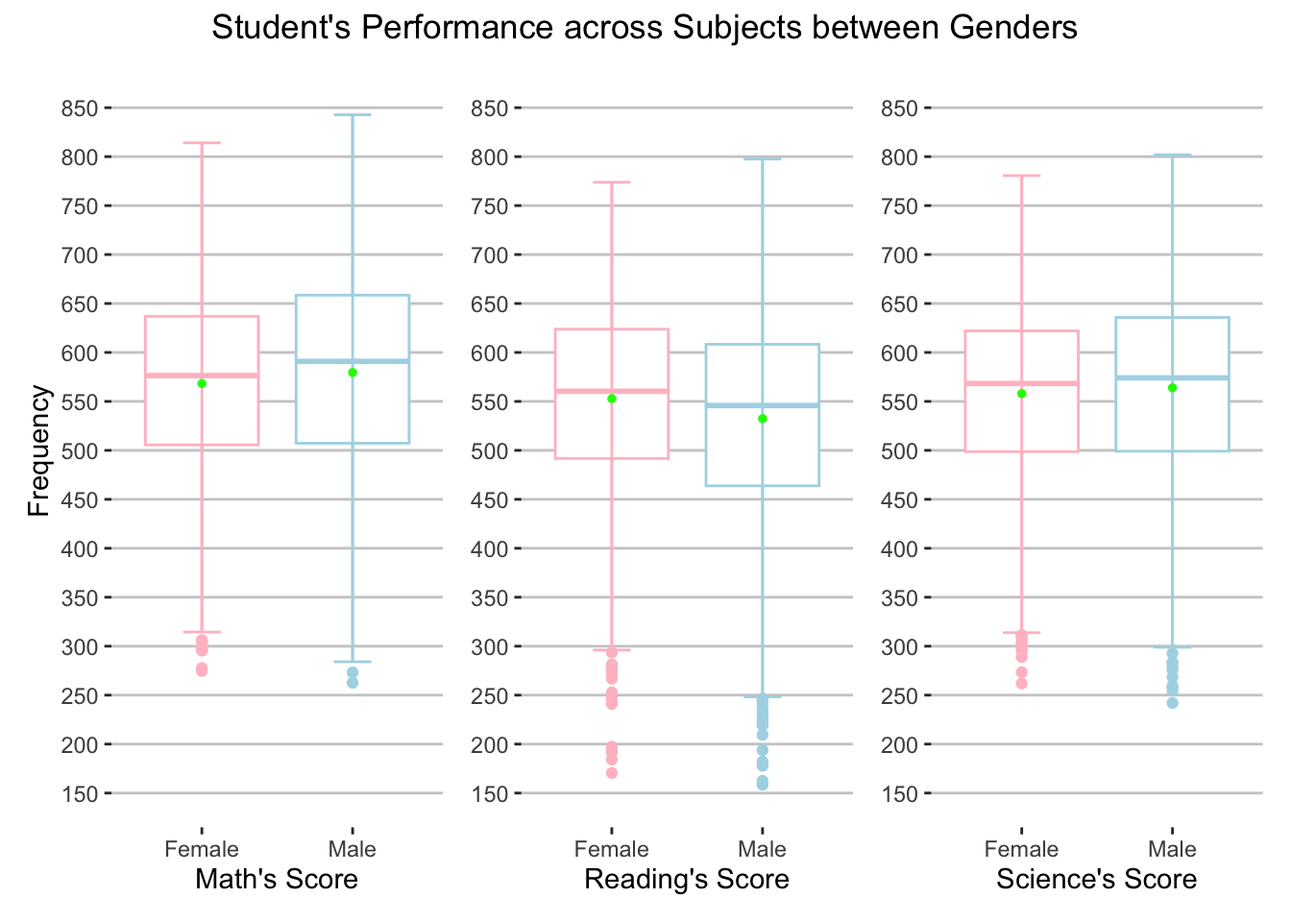
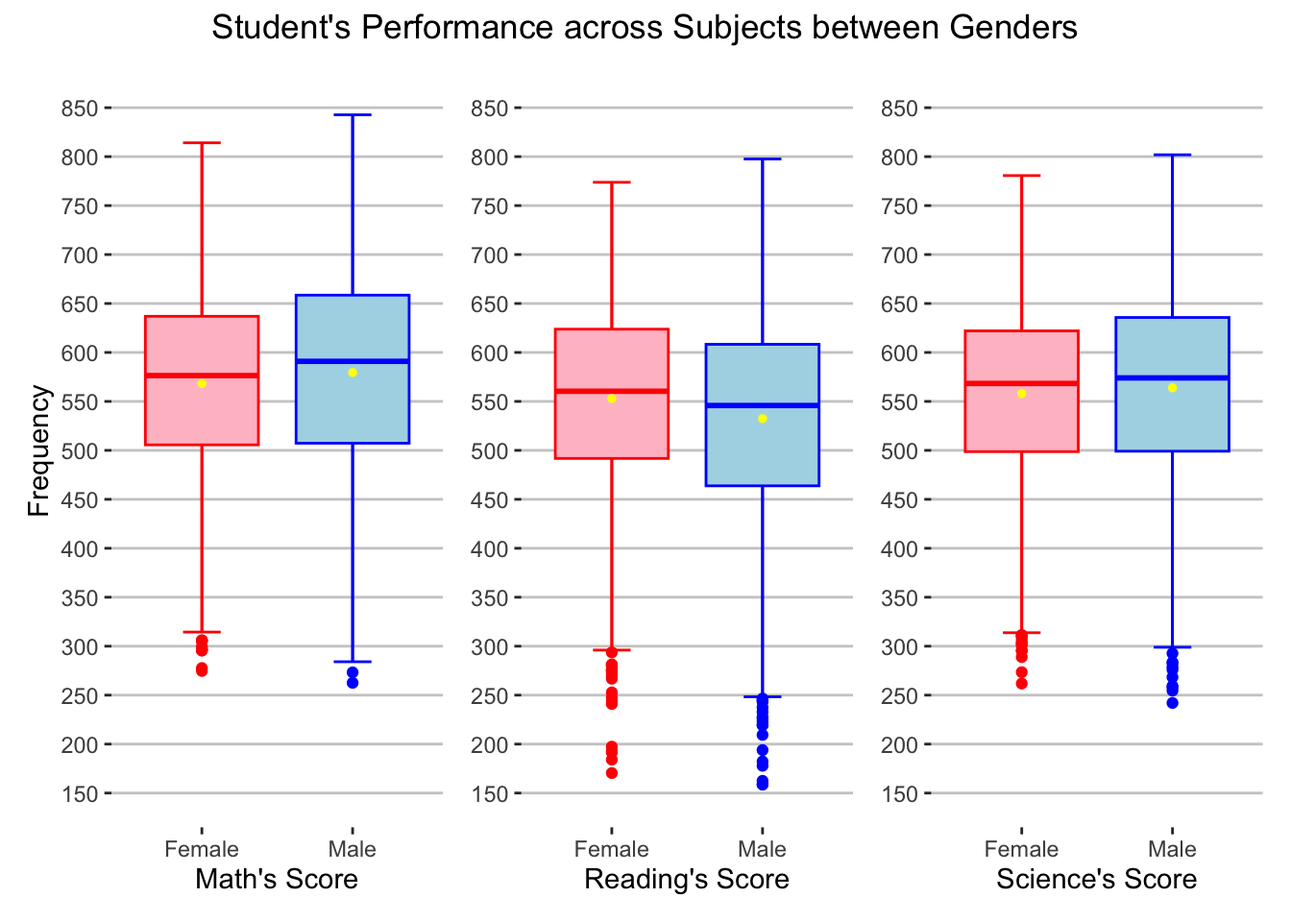
Take-home Exercise 2 Commit 3

diff --git a/_site/Take-home_Ex/Take-home_Ex2/Take-home_Ex2.html b/_site/Take-home_Ex/Take-home_Ex2/Take-home_Ex2.html
@@ -206,7 +206,6 @@ pre > code.sourceCode > span > a:first-child::before { text-decoration: underlin
   <li><a href="#distribution-of-students-performance-in-each-subject" id="toc-distribution-of-students-performance-in-each-subject" class="nav-link" data-scroll-target="#distribution-of-students-performance-in-each-subject">1. Distribution of student’s performance in each subject</a></li>
   <li><a href="#students-academic-performances-in-relation-to-gender" id="toc-students-academic-performances-in-relation-to-gender" class="nav-link" data-scroll-target="#students-academic-performances-in-relation-to-gender">2. Student’s academic performances in relation to gender</a></li>
   <li><a href="#the-comparison-of-students-performances-between-schools" id="toc-the-comparison-of-students-performances-between-schools" class="nav-link" data-scroll-target="#the-comparison-of-students-performances-between-schools">3. The comparison of student’s performances between schools</a></li>
-  <li><a href="#students-performance-in-regards-to-their-households-socioeconomic-status" id="toc-students-performance-in-regards-to-their-households-socioeconomic-status" class="nav-link" data-scroll-target="#students-performance-in-regards-to-their-households-socioeconomic-status">4. Student’s performance in regards to their household’s socioeconomic status</a></li>
   </ul></li>
   </ul>
 </nav>
@@ -234,7 +233,7 @@ pre > code.sourceCode > span > a:first-child::before { text-decoration: underlin
     <div>
     <div class="quarto-title-meta-heading">Modified</div>
     <div class="quarto-title-meta-contents">
-      <p class="date-modified">January 26, 2024</p>
+      <p class="date-modified">January 27, 2024</p>
     </div>
   </div>
     
@@ -320,8 +319,16 @@ pre > code.sourceCode > span > a:first-child::before { text-decoration: underlin
 <span id="cb6-14"><a href="#cb6-14" aria-hidden="true" tabindex="-1"></a>                         <span class="st">"1"</span> <span class="ot">=</span> <span class="st">"Female"</span>, </span>
 <span id="cb6-15"><a href="#cb6-15" aria-hidden="true" tabindex="-1"></a>                         <span class="st">"2"</span> <span class="ot">=</span> <span class="st">"Male"</span>))</span>
 <span id="cb6-16"><a href="#cb6-16" aria-hidden="true" tabindex="-1"></a></span>
-<span id="cb6-17"><a href="#cb6-17" aria-hidden="true" tabindex="-1"></a>stu_qqq<span class="sc">$</span>school_ID <span class="ot">&lt;-</span> <span class="fu">as.factor</span>(stu_qqq<span class="sc">$</span>school_ID)</span>
-<span id="cb6-18"><a href="#cb6-18" aria-hidden="true" tabindex="-1"></a>stu_qqq<span class="sc">$</span>gender <span class="ot">&lt;-</span> <span class="fu">as.factor</span>(stu_qqq<span class="sc">$</span>gender)</span></code><button title="Copy to Clipboard" class="code-copy-button"><i class="bi"></i></button></pre></div>
+<span id="cb6-17"><a href="#cb6-17" aria-hidden="true" tabindex="-1"></a>stu_qqq_sch <span class="ot">&lt;-</span> stu_qqq <span class="sc">%&gt;%</span></span>
+<span id="cb6-18"><a href="#cb6-18" aria-hidden="true" tabindex="-1"></a>  <span class="fu">group_by</span>(school_ID) <span class="sc">%&gt;%</span></span>
+<span id="cb6-19"><a href="#cb6-19" aria-hidden="true" tabindex="-1"></a>  <span class="fu">summarise</span>(</span>
+<span id="cb6-20"><a href="#cb6-20" aria-hidden="true" tabindex="-1"></a>    <span class="at">average_math =</span> <span class="fu">mean</span>(math),</span>
+<span id="cb6-21"><a href="#cb6-21" aria-hidden="true" tabindex="-1"></a>    <span class="at">average_read =</span> <span class="fu">mean</span>(read),</span>
+<span id="cb6-22"><a href="#cb6-22" aria-hidden="true" tabindex="-1"></a>    <span class="at">average_scie =</span> <span class="fu">mean</span>(science)) <span class="sc">%&gt;%</span></span>
+<span id="cb6-23"><a href="#cb6-23" aria-hidden="true" tabindex="-1"></a>  <span class="fu">unique</span>()</span>
+<span id="cb6-24"><a href="#cb6-24" aria-hidden="true" tabindex="-1"></a></span>
+<span id="cb6-25"><a href="#cb6-25" aria-hidden="true" tabindex="-1"></a>stu_qqq<span class="sc">$</span>school_ID <span class="ot">&lt;-</span> <span class="fu">as.factor</span>(stu_qqq<span class="sc">$</span>school_ID)</span>
+<span id="cb6-26"><a href="#cb6-26" aria-hidden="true" tabindex="-1"></a>stu_qqq<span class="sc">$</span>gender <span class="ot">&lt;-</span> <span class="fu">as.factor</span>(stu_qqq<span class="sc">$</span>gender)</span></code><button title="Copy to Clipboard" class="code-copy-button"><i class="bi"></i></button></pre></div>
 </div>
 <div class="cell">
 <div class="sourceCode cell-code" id="cb7"><pre class="sourceCode r code-with-copy"><code class="sourceCode r"><span id="cb7-1"><a href="#cb7-1" aria-hidden="true" tabindex="-1"></a><span class="fu">glimpse</span>(stu_qqq)</span></code><button title="Copy to Clipboard" class="code-copy-button"><i class="bi"></i></button></pre></div>
@@ -347,13 +354,13 @@ $ socio_economic &lt;dbl&gt; 0.1836, 0.8261, -1.0357, -0.9606, 0.0856, 0.1268, -
 <p>the goal of the above plot is to show the median, mean, and distribution of the student performances across the subjects.</p>
 <p>I believe the plot above can be improved, such as:</p>
 <ul>
-<li>the x axis could be more clearer, instead of putting the subject as a title, the subject can be put before the “score” at x axis</li>
+<li>the x axis could be more clearer, instead of putting the subject as a title, the subject can be put before the “score” at x axis (Clarity)</li>
 </ul>
 <!-- -->
 <ul>
-<li><p>the mean line color is very similar as the bar color resulting in blended colour between both, therefore the color could be changed</p></li>
-<li><p>we cannot really know the score for the median and mean, adding the score to the label using annotation could give additional information</p></li>
-<li><p>the minimal space of using patchwork got worse since histogram is used, the figure above gives false impression of reading to be more important with a bigger graph than science and math. this might be caused by having 3 vertical histogram side by side would make each graphs too squeezed. I propose to change the orientation of the graph and make them side by side to reduce the inclarity of the graph.</p></li>
+<li><p>the mean line color is very similar as the bar color resulting in blended colour between both, therefore the color could be changed (Aesthetic)</p></li>
+<li><p>we cannot really know the score for the median and mean, adding the score to the label using annotation could give additional information (Clarity)</p></li>
+<li><p>the minimal space of using patchwork got worse since histogram is used, the figure above gives false impression of reading to be more important with a bigger graph than science and math. this might be caused by having 3 vertical histogram side by side would make each graphs too squeezed. I propose to change the orientation of the graph and make them side by side to reduce the inclarity of the graph. (Aesthetic)</p></li>
 </ul>
 <div class="cell">
 <div class="sourceCode cell-code" id="cb9"><pre class="sourceCode r code-with-copy"><code class="sourceCode r"><span id="cb9-1"><a href="#cb9-1" aria-hidden="true" tabindex="-1"></a><span class="fu">summary</span>(stu_qqq<span class="sc">$</span>math)</span></code><button title="Copy to Clipboard" class="code-copy-button"><i class="bi"></i></button></pre></div>
@@ -511,25 +518,24 @@ $ socio_economic &lt;dbl&gt; 0.1836, 0.8261, -1.0357, -0.9606, 0.0856, 0.1268, -
 <section id="students-academic-performances-in-relation-to-gender" class="level3">
 <h3 class="anchored" data-anchor-id="students-academic-performances-in-relation-to-gender">2. Student’s academic performances in relation to gender</h3>
 <p><img src="images/Screenshot 2024-01-23 at 15.10.11.png" class="img-fluid"></p>
-<p>the plot above was used to show the studend performance differences between gender across the subject</p>
+<p>the plot above was used to show the student performance differences between gender across the subject</p>
 <p>there are ways to improve the plot, such as:</p>
 <ul>
-<li><p>give different colors toward each subject</p></li>
-<li><p>a clearer and more attractive title</p></li>
-<li><p>giving the error bar on the box plot to give better view</p></li>
-<li><p>give the legends of the plot</p></li>
-<li><p>create more y tick to ease reading each of the box plot attributes</p>
+<li><p>give different colors toward each subject (Aesthetic)</p></li>
+<li><p>a clearer and more attractive title (Clarity)</p></li>
+<li><p>giving the error bar on the box plot to give better view (Aesthetic)</p></li>
+<li><p>create more y tick to ease reading each of the box plot attributes (Clarity)</p>
 <div class="cell">
 <div class="sourceCode cell-code" id="cb16"><pre class="sourceCode r code-with-copy"><code class="sourceCode r"><span id="cb16-1"><a href="#cb16-1" aria-hidden="true" tabindex="-1"></a>gendermath <span class="ot">&lt;-</span> <span class="fu">ggplot</span>(<span class="at">data =</span> stu_qqq,</span>
 <span id="cb16-2"><a href="#cb16-2" aria-hidden="true" tabindex="-1"></a>       <span class="fu">aes</span>(<span class="at">x =</span> gender,</span>
 <span id="cb16-3"><a href="#cb16-3" aria-hidden="true" tabindex="-1"></a>           <span class="at">y =</span> math)) <span class="sc">+</span></span>
-<span id="cb16-4"><a href="#cb16-4" aria-hidden="true" tabindex="-1"></a>  <span class="fu">geom_boxplot</span>(<span class="at">color =</span> <span class="fu">c</span>(<span class="st">"pink"</span>,<span class="st">'lightblue'</span>)) <span class="sc">+</span></span>
-<span id="cb16-5"><a href="#cb16-5" aria-hidden="true" tabindex="-1"></a>  <span class="fu">stat_boxplot</span>(<span class="at">geom =</span> <span class="st">"errorbar"</span>, </span>
-<span id="cb16-6"><a href="#cb16-6" aria-hidden="true" tabindex="-1"></a>               <span class="at">width =</span> <span class="fl">0.25</span>,</span>
-<span id="cb16-7"><a href="#cb16-7" aria-hidden="true" tabindex="-1"></a>               <span class="at">color =</span> <span class="fu">c</span>(<span class="st">"pink"</span>,<span class="st">'lightblue'</span>))<span class="sc">+</span></span>
+<span id="cb16-4"><a href="#cb16-4" aria-hidden="true" tabindex="-1"></a>  <span class="fu">stat_boxplot</span>(<span class="at">geom =</span> <span class="st">"errorbar"</span>, </span>
+<span id="cb16-5"><a href="#cb16-5" aria-hidden="true" tabindex="-1"></a>               <span class="at">width =</span> <span class="fl">0.25</span>,</span>
+<span id="cb16-6"><a href="#cb16-6" aria-hidden="true" tabindex="-1"></a>               <span class="at">color =</span> <span class="fu">c</span>(<span class="st">"red"</span>,<span class="st">'blue'</span>))<span class="sc">+</span></span>
+<span id="cb16-7"><a href="#cb16-7" aria-hidden="true" tabindex="-1"></a>  <span class="fu">geom_boxplot</span>(<span class="at">color =</span> <span class="fu">c</span>(<span class="st">"red"</span>,<span class="st">'blue'</span>), <span class="at">fill =</span> <span class="fu">c</span>(<span class="st">"pink"</span>,<span class="st">'lightblue'</span>)) <span class="sc">+</span></span>
 <span id="cb16-8"><a href="#cb16-8" aria-hidden="true" tabindex="-1"></a>  <span class="fu">geom_point</span>(<span class="at">stat =</span> <span class="st">"summary"</span>,        </span>
 <span id="cb16-9"><a href="#cb16-9" aria-hidden="true" tabindex="-1"></a>             <span class="at">fun.y =</span> <span class="st">"mean"</span>,           </span>
-<span id="cb16-10"><a href="#cb16-10" aria-hidden="true" tabindex="-1"></a>             <span class="at">colour =</span> <span class="st">"green"</span>,          </span>
+<span id="cb16-10"><a href="#cb16-10" aria-hidden="true" tabindex="-1"></a>             <span class="at">colour =</span> <span class="st">"yellow"</span>,          </span>
 <span id="cb16-11"><a href="#cb16-11" aria-hidden="true" tabindex="-1"></a>             <span class="at">size =</span> <span class="dv">1</span>) <span class="sc">+</span></span>
 <span id="cb16-12"><a href="#cb16-12" aria-hidden="true" tabindex="-1"></a>  <span class="fu">labs</span>(<span class="at">x =</span> <span class="st">"Math's Score"</span>) <span class="sc">+</span></span>
 <span id="cb16-13"><a href="#cb16-13" aria-hidden="true" tabindex="-1"></a>  <span class="fu">scale_y_continuous</span>(<span class="st">"Frequency"</span>, <span class="at">breaks =</span> <span class="fu">seq</span>(<span class="dv">150</span>,<span class="dv">850</span>,<span class="dv">50</span>), <span class="at">limits =</span> <span class="fu">c</span>(<span class="dv">150</span>,<span class="dv">850</span>))<span class="sc">+</span></span>
@@ -541,13 +547,13 @@ $ socio_economic &lt;dbl&gt; 0.1836, 0.8261, -1.0357, -0.9606, 0.0856, 0.1268, -
 <span id="cb16-19"><a href="#cb16-19" aria-hidden="true" tabindex="-1"></a>genderread <span class="ot">&lt;-</span> <span class="fu">ggplot</span>(<span class="at">data =</span> stu_qqq,</span>
 <span id="cb16-20"><a href="#cb16-20" aria-hidden="true" tabindex="-1"></a>       <span class="fu">aes</span>(<span class="at">x =</span> gender,</span>
 <span id="cb16-21"><a href="#cb16-21" aria-hidden="true" tabindex="-1"></a>           <span class="at">y =</span> read)) <span class="sc">+</span></span>
-<span id="cb16-22"><a href="#cb16-22" aria-hidden="true" tabindex="-1"></a>  <span class="fu">geom_boxplot</span>(<span class="at">color =</span> <span class="fu">c</span>(<span class="st">"pink"</span>,<span class="st">'lightblue'</span>)) <span class="sc">+</span></span>
-<span id="cb16-23"><a href="#cb16-23" aria-hidden="true" tabindex="-1"></a>  <span class="fu">stat_boxplot</span>(<span class="at">geom =</span> <span class="st">"errorbar"</span>, </span>
-<span id="cb16-24"><a href="#cb16-24" aria-hidden="true" tabindex="-1"></a>               <span class="at">width =</span> <span class="fl">0.25</span>,</span>
-<span id="cb16-25"><a href="#cb16-25" aria-hidden="true" tabindex="-1"></a>               <span class="at">color =</span> <span class="fu">c</span>(<span class="st">"pink"</span>,<span class="st">'lightblue'</span>))<span class="sc">+</span></span>
+<span id="cb16-22"><a href="#cb16-22" aria-hidden="true" tabindex="-1"></a>  <span class="fu">stat_boxplot</span>(<span class="at">geom =</span> <span class="st">"errorbar"</span>, </span>
+<span id="cb16-23"><a href="#cb16-23" aria-hidden="true" tabindex="-1"></a>               <span class="at">width =</span> <span class="fl">0.25</span>,</span>
+<span id="cb16-24"><a href="#cb16-24" aria-hidden="true" tabindex="-1"></a>               <span class="at">color =</span> <span class="fu">c</span>(<span class="st">"red"</span>,<span class="st">'blue'</span>))<span class="sc">+</span></span>
+<span id="cb16-25"><a href="#cb16-25" aria-hidden="true" tabindex="-1"></a>  <span class="fu">geom_boxplot</span>(<span class="at">color =</span> <span class="fu">c</span>(<span class="st">"red"</span>,<span class="st">'blue'</span>), <span class="at">fill =</span> <span class="fu">c</span>(<span class="st">"pink"</span>,<span class="st">'lightblue'</span>)) <span class="sc">+</span></span>
 <span id="cb16-26"><a href="#cb16-26" aria-hidden="true" tabindex="-1"></a>  <span class="fu">geom_point</span>(<span class="at">stat =</span> <span class="st">"summary"</span>,        </span>
 <span id="cb16-27"><a href="#cb16-27" aria-hidden="true" tabindex="-1"></a>             <span class="at">fun.y =</span> <span class="st">"mean"</span>,           </span>
-<span id="cb16-28"><a href="#cb16-28" aria-hidden="true" tabindex="-1"></a>             <span class="at">colour =</span> <span class="st">"green"</span>,          </span>
+<span id="cb16-28"><a href="#cb16-28" aria-hidden="true" tabindex="-1"></a>             <span class="at">colour =</span> <span class="st">"yellow"</span>,          </span>
 <span id="cb16-29"><a href="#cb16-29" aria-hidden="true" tabindex="-1"></a>             <span class="at">size =</span> <span class="dv">1</span>) <span class="sc">+</span></span>
 <span id="cb16-30"><a href="#cb16-30" aria-hidden="true" tabindex="-1"></a>  <span class="fu">ylim</span>(<span class="dv">150</span>,<span class="dv">850</span>) <span class="sc">+</span></span>
 <span id="cb16-31"><a href="#cb16-31" aria-hidden="true" tabindex="-1"></a>  <span class="fu">labs</span>(<span class="at">x =</span> <span class="st">"Reading's Score"</span>) <span class="sc">+</span></span>
@@ -560,13 +566,13 @@ $ socio_economic &lt;dbl&gt; 0.1836, 0.8261, -1.0357, -0.9606, 0.0856, 0.1268, -
 <span id="cb16-38"><a href="#cb16-38" aria-hidden="true" tabindex="-1"></a>gendersci <span class="ot">&lt;-</span> <span class="fu">ggplot</span>(<span class="at">data =</span> stu_qqq,</span>
 <span id="cb16-39"><a href="#cb16-39" aria-hidden="true" tabindex="-1"></a>       <span class="fu">aes</span>(<span class="at">x =</span> gender,</span>
 <span id="cb16-40"><a href="#cb16-40" aria-hidden="true" tabindex="-1"></a>           <span class="at">y =</span> science)) <span class="sc">+</span></span>
-<span id="cb16-41"><a href="#cb16-41" aria-hidden="true" tabindex="-1"></a>  <span class="fu">geom_boxplot</span>(<span class="at">color =</span> <span class="fu">c</span>(<span class="st">"pink"</span>,<span class="st">'lightblue'</span>)) <span class="sc">+</span></span>
-<span id="cb16-42"><a href="#cb16-42" aria-hidden="true" tabindex="-1"></a>  <span class="fu">stat_boxplot</span>(<span class="at">geom =</span> <span class="st">"errorbar"</span>, </span>
-<span id="cb16-43"><a href="#cb16-43" aria-hidden="true" tabindex="-1"></a>               <span class="at">width =</span> <span class="fl">0.25</span>,</span>
-<span id="cb16-44"><a href="#cb16-44" aria-hidden="true" tabindex="-1"></a>               <span class="at">color =</span> <span class="fu">c</span>(<span class="st">"pink"</span>,<span class="st">'lightblue'</span>))<span class="sc">+</span></span>
+<span id="cb16-41"><a href="#cb16-41" aria-hidden="true" tabindex="-1"></a>  <span class="fu">stat_boxplot</span>(<span class="at">geom =</span> <span class="st">"errorbar"</span>, </span>
+<span id="cb16-42"><a href="#cb16-42" aria-hidden="true" tabindex="-1"></a>               <span class="at">width =</span> <span class="fl">0.25</span>,</span>
+<span id="cb16-43"><a href="#cb16-43" aria-hidden="true" tabindex="-1"></a>               <span class="at">color =</span> <span class="fu">c</span>(<span class="st">"red"</span>,<span class="st">'blue'</span>))<span class="sc">+</span></span>
+<span id="cb16-44"><a href="#cb16-44" aria-hidden="true" tabindex="-1"></a>  <span class="fu">geom_boxplot</span>(<span class="at">color =</span> <span class="fu">c</span>(<span class="st">"red"</span>,<span class="st">'blue'</span>), <span class="at">fill =</span> <span class="fu">c</span>(<span class="st">"pink"</span>,<span class="st">'lightblue'</span>)) <span class="sc">+</span></span>
 <span id="cb16-45"><a href="#cb16-45" aria-hidden="true" tabindex="-1"></a>  <span class="fu">geom_point</span>(<span class="at">stat =</span> <span class="st">"summary"</span>,        </span>
 <span id="cb16-46"><a href="#cb16-46" aria-hidden="true" tabindex="-1"></a>             <span class="at">fun.y =</span> <span class="st">"mean"</span>,           </span>
-<span id="cb16-47"><a href="#cb16-47" aria-hidden="true" tabindex="-1"></a>             <span class="at">colour =</span> <span class="st">"green"</span>,          </span>
+<span id="cb16-47"><a href="#cb16-47" aria-hidden="true" tabindex="-1"></a>             <span class="at">colour =</span> <span class="st">"yellow"</span>,          </span>
 <span id="cb16-48"><a href="#cb16-48" aria-hidden="true" tabindex="-1"></a>             <span class="at">size =</span> <span class="dv">1</span>) <span class="sc">+</span></span>
 <span id="cb16-49"><a href="#cb16-49" aria-hidden="true" tabindex="-1"></a>  <span class="fu">ylim</span>(<span class="dv">150</span>,<span class="dv">850</span>) <span class="sc">+</span></span>
 <span id="cb16-50"><a href="#cb16-50" aria-hidden="true" tabindex="-1"></a>  <span class="fu">labs</span>(<span class="at">x =</span> <span class="st">"Science's Score"</span>) <span class="sc">+</span></span>
@@ -588,18 +594,113 @@ $ socio_economic &lt;dbl&gt; 0.1836, 0.8261, -1.0357, -0.9606, 0.0856, 0.1268, -
 </section>
 <section id="the-comparison-of-students-performances-between-schools" class="level3">
 <h3 class="anchored" data-anchor-id="the-comparison-of-students-performances-between-schools">3. The comparison of student’s performances between schools</h3>
-<section id="distribution-of-average-performances" class="level4">
-<h4 class="anchored" data-anchor-id="distribution-of-average-performances">3.1 distribution of average performances</h4>
 <p><img src="images/Screenshot 2024-01-23 at 15.10.30.png" class="img-fluid"></p>
-</section>
-<section id="distribution-of-average-performances-compared-to-singapore-average" class="level4">
-<h4 class="anchored" data-anchor-id="distribution-of-average-performances-compared-to-singapore-average">3.2 distribution of average performances compared to Singapore average</h4>
-<p><img src="images/Screenshot 2024-01-23 at 15.10.48.png" class="img-fluid"></p>
-</section>
-</section>
-<section id="students-performance-in-regards-to-their-households-socioeconomic-status" class="level3">
-<h3 class="anchored" data-anchor-id="students-performance-in-regards-to-their-households-socioeconomic-status">4. Student’s performance in regards to their household’s socioeconomic status</h3>
-<p><img src="images/Screenshot 2024-01-23 at 15.12.23.png" class="img-fluid"></p>
+<p>the plot above was used to show the average student performance of a school</p>
+<p>there are ways to improve the plot, such as:</p>
+<ul>
+<li><p>Clearer title and axis labels (Clarity)</p></li>
+<li><p>More pronounced colour differences between the median line and the histogram (Aesthetic)</p></li>
+<li><p>Create more tick to ease viewing and reduce the axis length (Clarity)</p></li>
+<li><p>Bigger bin for each histogram to make it more tight (Aesthetic)</p></li>
+<li><p>annotate the median value (Clarity)</p></li>
+</ul>
+<div class="cell">
+<div class="sourceCode cell-code" id="cb17"><pre class="sourceCode r code-with-copy"><code class="sourceCode r"><span id="cb17-1"><a href="#cb17-1" aria-hidden="true" tabindex="-1"></a><span class="fu">summary</span>(stu_qqq_sch<span class="sc">$</span>average_math)</span></code><button title="Copy to Clipboard" class="code-copy-button"><i class="bi"></i></button></pre></div>
+<div class="cell-output cell-output-stdout">
+<pre><code>   Min. 1st Qu.  Median    Mean 3rd Qu.    Max. 
+  386.7   530.8   563.7   569.7   591.6   739.8 </code></pre>
+</div>
+</div>
+<div class="cell">
+<div class="sourceCode cell-code" id="cb19"><pre class="sourceCode r code-with-copy"><code class="sourceCode r"><span id="cb19-1"><a href="#cb19-1" aria-hidden="true" tabindex="-1"></a>schmath <span class="ot">&lt;-</span> <span class="fu">ggplot</span>(<span class="at">data =</span> stu_qqq_sch,</span>
+<span id="cb19-2"><a href="#cb19-2" aria-hidden="true" tabindex="-1"></a>       <span class="fu">aes</span>(<span class="at">x =</span> average_math)) <span class="sc">+</span></span>
+<span id="cb19-3"><a href="#cb19-3" aria-hidden="true" tabindex="-1"></a>  <span class="fu">geom_histogram</span>(<span class="at">binwidth=</span><span class="dv">50</span>,</span>
+<span id="cb19-4"><a href="#cb19-4" aria-hidden="true" tabindex="-1"></a>                 <span class="at">color =</span> <span class="st">"grey50"</span>,</span>
+<span id="cb19-5"><a href="#cb19-5" aria-hidden="true" tabindex="-1"></a>                 <span class="at">fill =</span> <span class="st">"lightblue"</span>) <span class="sc">+</span></span>
+<span id="cb19-6"><a href="#cb19-6" aria-hidden="true" tabindex="-1"></a>  <span class="fu">scale_x_continuous</span>(<span class="st">"Avg Math Score"</span>, <span class="at">limits =</span> <span class="fu">c</span>(<span class="dv">350</span>,<span class="dv">750</span>), <span class="at">breaks =</span> <span class="fu">seq</span>(<span class="dv">375</span>,<span class="dv">725</span>,<span class="dv">50</span>)) <span class="sc">+</span></span>
+<span id="cb19-7"><a href="#cb19-7" aria-hidden="true" tabindex="-1"></a>  <span class="fu">scale_y_continuous</span>(<span class="st">"No of School"</span>, <span class="at">limits =</span> <span class="fu">c</span>(<span class="dv">0</span>,<span class="dv">70</span>), <span class="at">breaks =</span> <span class="fu">seq</span>(<span class="dv">0</span>,<span class="dv">70</span>,<span class="dv">5</span>)) <span class="sc">+</span></span>
+<span id="cb19-8"><a href="#cb19-8" aria-hidden="true" tabindex="-1"></a>  <span class="fu">geom_vline</span>(</span>
+<span id="cb19-9"><a href="#cb19-9" aria-hidden="true" tabindex="-1"></a>    <span class="fu">aes</span>(<span class="at">xintercept =</span> <span class="fu">median</span>(average_math)),</span>
+<span id="cb19-10"><a href="#cb19-10" aria-hidden="true" tabindex="-1"></a>    <span class="at">colour=</span><span class="st">"red"</span>, </span>
+<span id="cb19-11"><a href="#cb19-11" aria-hidden="true" tabindex="-1"></a>    <span class="at">linewidth =</span> <span class="fl">0.8</span>, </span>
+<span id="cb19-12"><a href="#cb19-12" aria-hidden="true" tabindex="-1"></a>    <span class="at">linetype =</span> <span class="st">"dashed"</span></span>
+<span id="cb19-13"><a href="#cb19-13" aria-hidden="true" tabindex="-1"></a>  ) <span class="sc">+</span></span>
+<span id="cb19-14"><a href="#cb19-14" aria-hidden="true" tabindex="-1"></a>  <span class="fu">annotate</span>(</span>
+<span id="cb19-15"><a href="#cb19-15" aria-hidden="true" tabindex="-1"></a>    <span class="at">geom =</span> <span class="st">"text"</span>, </span>
+<span id="cb19-16"><a href="#cb19-16" aria-hidden="true" tabindex="-1"></a>    <span class="at">x =</span> <span class="fu">median</span>(stu_qqq_sch<span class="sc">$</span>average_math) <span class="sc">+</span> <span class="dv">25</span>, </span>
+<span id="cb19-17"><a href="#cb19-17" aria-hidden="true" tabindex="-1"></a>    <span class="at">y =</span> <span class="dv">65</span>,</span>
+<span id="cb19-18"><a href="#cb19-18" aria-hidden="true" tabindex="-1"></a>    <span class="at">label =</span> <span class="fu">paste0</span>(<span class="st">"Median = </span><span class="sc">\n</span><span class="st">"</span>, <span class="fu">round</span>(<span class="fu">median</span>(stu_qqq_sch<span class="sc">$</span>average_math),<span class="dv">2</span>)),</span>
+<span id="cb19-19"><a href="#cb19-19" aria-hidden="true" tabindex="-1"></a>    <span class="at">color =</span> <span class="st">"red"</span>,</span>
+<span id="cb19-20"><a href="#cb19-20" aria-hidden="true" tabindex="-1"></a>    <span class="at">hjust =</span> <span class="dv">0</span></span>
+<span id="cb19-21"><a href="#cb19-21" aria-hidden="true" tabindex="-1"></a>  ) <span class="sc">+</span></span>
+<span id="cb19-22"><a href="#cb19-22" aria-hidden="true" tabindex="-1"></a>  <span class="fu">theme</span>(<span class="at">axis.text.x =</span> <span class="fu">element_text</span>(<span class="at">size=</span><span class="dv">5</span>),</span>
+<span id="cb19-23"><a href="#cb19-23" aria-hidden="true" tabindex="-1"></a>        <span class="at">panel.background =</span> <span class="fu">element_rect</span>(<span class="at">fill=</span><span class="st">"white"</span>,<span class="at">colour=</span><span class="st">"white"</span>),</span>
+<span id="cb19-24"><a href="#cb19-24" aria-hidden="true" tabindex="-1"></a>        <span class="at">panel.grid.major =</span> <span class="fu">element_line</span>(<span class="at">color =</span> <span class="st">"grey80"</span>),</span>
+<span id="cb19-25"><a href="#cb19-25" aria-hidden="true" tabindex="-1"></a>        <span class="at">panel.grid.minor =</span> <span class="fu">element_blank</span>(),</span>
+<span id="cb19-26"><a href="#cb19-26" aria-hidden="true" tabindex="-1"></a>        <span class="at">panel.grid.major.x =</span> <span class="fu">element_blank</span>())</span>
+<span id="cb19-27"><a href="#cb19-27" aria-hidden="true" tabindex="-1"></a></span>
+<span id="cb19-28"><a href="#cb19-28" aria-hidden="true" tabindex="-1"></a>schscie <span class="ot">&lt;-</span> <span class="fu">ggplot</span>(<span class="at">data =</span> stu_qqq_sch,</span>
+<span id="cb19-29"><a href="#cb19-29" aria-hidden="true" tabindex="-1"></a>       <span class="fu">aes</span>(<span class="at">x =</span> average_scie)) <span class="sc">+</span></span>
+<span id="cb19-30"><a href="#cb19-30" aria-hidden="true" tabindex="-1"></a>  <span class="fu">geom_histogram</span>(<span class="at">binwidth=</span><span class="dv">50</span>,</span>
+<span id="cb19-31"><a href="#cb19-31" aria-hidden="true" tabindex="-1"></a>                 <span class="at">color =</span> <span class="st">"grey50"</span>,</span>
+<span id="cb19-32"><a href="#cb19-32" aria-hidden="true" tabindex="-1"></a>                 <span class="at">fill =</span> <span class="st">"lightblue"</span>) <span class="sc">+</span></span>
+<span id="cb19-33"><a href="#cb19-33" aria-hidden="true" tabindex="-1"></a>  <span class="fu">scale_x_continuous</span>(<span class="st">"Avg Science Score"</span>, <span class="at">limits =</span> <span class="fu">c</span>(<span class="dv">350</span>,<span class="dv">750</span>), <span class="at">breaks =</span> <span class="fu">seq</span>(<span class="dv">375</span>,<span class="dv">725</span>,<span class="dv">50</span>)) <span class="sc">+</span></span>
+<span id="cb19-34"><a href="#cb19-34" aria-hidden="true" tabindex="-1"></a>  <span class="fu">scale_y_continuous</span>(<span class="cn">NULL</span>, <span class="at">limits =</span> <span class="fu">c</span>(<span class="dv">0</span>,<span class="dv">70</span>), <span class="at">breaks =</span> <span class="fu">seq</span>(<span class="dv">0</span>,<span class="dv">70</span>,<span class="dv">5</span>)) <span class="sc">+</span></span>
+<span id="cb19-35"><a href="#cb19-35" aria-hidden="true" tabindex="-1"></a>  <span class="fu">geom_vline</span>(</span>
+<span id="cb19-36"><a href="#cb19-36" aria-hidden="true" tabindex="-1"></a>    <span class="fu">aes</span>(<span class="at">xintercept =</span> <span class="fu">median</span>(average_scie)),</span>
+<span id="cb19-37"><a href="#cb19-37" aria-hidden="true" tabindex="-1"></a>    <span class="at">colour=</span><span class="st">"red"</span>, </span>
+<span id="cb19-38"><a href="#cb19-38" aria-hidden="true" tabindex="-1"></a>    <span class="at">linewidth =</span> <span class="fl">0.8</span>, </span>
+<span id="cb19-39"><a href="#cb19-39" aria-hidden="true" tabindex="-1"></a>    <span class="at">linetype =</span> <span class="st">"dashed"</span></span>
+<span id="cb19-40"><a href="#cb19-40" aria-hidden="true" tabindex="-1"></a>  ) <span class="sc">+</span></span>
+<span id="cb19-41"><a href="#cb19-41" aria-hidden="true" tabindex="-1"></a>  <span class="fu">annotate</span>(</span>
+<span id="cb19-42"><a href="#cb19-42" aria-hidden="true" tabindex="-1"></a>    <span class="at">geom =</span> <span class="st">"text"</span>, </span>
+<span id="cb19-43"><a href="#cb19-43" aria-hidden="true" tabindex="-1"></a>    <span class="at">x =</span> <span class="fu">median</span>(stu_qqq_sch<span class="sc">$</span>average_scie) <span class="sc">+</span> <span class="dv">25</span>, </span>
+<span id="cb19-44"><a href="#cb19-44" aria-hidden="true" tabindex="-1"></a>    <span class="at">y =</span> <span class="dv">65</span>,</span>
+<span id="cb19-45"><a href="#cb19-45" aria-hidden="true" tabindex="-1"></a>    <span class="at">label =</span> <span class="fu">paste0</span>(<span class="st">"Median = </span><span class="sc">\n</span><span class="st">"</span>, <span class="fu">round</span>(<span class="fu">median</span>(stu_qqq_sch<span class="sc">$</span>average_read),<span class="dv">2</span>)),</span>
+<span id="cb19-46"><a href="#cb19-46" aria-hidden="true" tabindex="-1"></a>    <span class="at">color =</span> <span class="st">"red"</span>,</span>
+<span id="cb19-47"><a href="#cb19-47" aria-hidden="true" tabindex="-1"></a>    <span class="at">hjust =</span> <span class="dv">0</span></span>
+<span id="cb19-48"><a href="#cb19-48" aria-hidden="true" tabindex="-1"></a>  ) <span class="sc">+</span></span>
+<span id="cb19-49"><a href="#cb19-49" aria-hidden="true" tabindex="-1"></a>  <span class="fu">theme</span>(<span class="at">axis.text.x =</span> <span class="fu">element_text</span>(<span class="at">size=</span><span class="dv">5</span>),</span>
+<span id="cb19-50"><a href="#cb19-50" aria-hidden="true" tabindex="-1"></a>        <span class="at">panel.background =</span> <span class="fu">element_rect</span>(<span class="at">fill=</span><span class="st">"white"</span>,<span class="at">colour=</span><span class="st">"white"</span>),</span>
+<span id="cb19-51"><a href="#cb19-51" aria-hidden="true" tabindex="-1"></a>        <span class="at">panel.grid.major =</span> <span class="fu">element_line</span>(<span class="at">color =</span> <span class="st">"grey80"</span>),</span>
+<span id="cb19-52"><a href="#cb19-52" aria-hidden="true" tabindex="-1"></a>        <span class="at">panel.grid.minor =</span> <span class="fu">element_blank</span>(),</span>
+<span id="cb19-53"><a href="#cb19-53" aria-hidden="true" tabindex="-1"></a>        <span class="at">panel.grid.major.x =</span> <span class="fu">element_blank</span>())</span>
+<span id="cb19-54"><a href="#cb19-54" aria-hidden="true" tabindex="-1"></a></span>
+<span id="cb19-55"><a href="#cb19-55" aria-hidden="true" tabindex="-1"></a>schread <span class="ot">&lt;-</span> <span class="fu">ggplot</span>(<span class="at">data =</span> stu_qqq_sch,</span>
+<span id="cb19-56"><a href="#cb19-56" aria-hidden="true" tabindex="-1"></a>       <span class="fu">aes</span>(<span class="at">x =</span> average_read)) <span class="sc">+</span></span>
+<span id="cb19-57"><a href="#cb19-57" aria-hidden="true" tabindex="-1"></a>  <span class="fu">geom_histogram</span>(<span class="at">binwidth=</span><span class="dv">50</span>,</span>
+<span id="cb19-58"><a href="#cb19-58" aria-hidden="true" tabindex="-1"></a>                 <span class="at">color =</span> <span class="st">"grey50"</span>,</span>
+<span id="cb19-59"><a href="#cb19-59" aria-hidden="true" tabindex="-1"></a>                 <span class="at">fill =</span> <span class="st">"lightblue"</span>) <span class="sc">+</span></span>
+<span id="cb19-60"><a href="#cb19-60" aria-hidden="true" tabindex="-1"></a>  <span class="fu">scale_x_continuous</span>(<span class="st">"Avg Reading Score"</span>, <span class="at">limits =</span> <span class="fu">c</span>(<span class="dv">350</span>,<span class="dv">750</span>), <span class="at">breaks =</span> <span class="fu">seq</span>(<span class="dv">375</span>,<span class="dv">725</span>,<span class="dv">50</span>)) <span class="sc">+</span></span>
+<span id="cb19-61"><a href="#cb19-61" aria-hidden="true" tabindex="-1"></a>  <span class="fu">scale_y_continuous</span>(<span class="cn">NULL</span>, <span class="at">limits =</span> <span class="fu">c</span>(<span class="dv">0</span>,<span class="dv">70</span>), <span class="at">breaks =</span> <span class="fu">seq</span>(<span class="dv">0</span>,<span class="dv">70</span>,<span class="dv">5</span>)) <span class="sc">+</span></span>
+<span id="cb19-62"><a href="#cb19-62" aria-hidden="true" tabindex="-1"></a>  <span class="fu">geom_vline</span>(</span>
+<span id="cb19-63"><a href="#cb19-63" aria-hidden="true" tabindex="-1"></a>    <span class="fu">aes</span>(<span class="at">xintercept =</span> <span class="fu">median</span>(average_read)),</span>
+<span id="cb19-64"><a href="#cb19-64" aria-hidden="true" tabindex="-1"></a>    <span class="at">colour=</span><span class="st">"red"</span>, </span>
+<span id="cb19-65"><a href="#cb19-65" aria-hidden="true" tabindex="-1"></a>    <span class="at">linewidth =</span> <span class="fl">0.8</span>, </span>
+<span id="cb19-66"><a href="#cb19-66" aria-hidden="true" tabindex="-1"></a>    <span class="at">linetype =</span> <span class="st">"dashed"</span></span>
+<span id="cb19-67"><a href="#cb19-67" aria-hidden="true" tabindex="-1"></a>  ) <span class="sc">+</span></span>
+<span id="cb19-68"><a href="#cb19-68" aria-hidden="true" tabindex="-1"></a>  <span class="fu">annotate</span>(</span>
+<span id="cb19-69"><a href="#cb19-69" aria-hidden="true" tabindex="-1"></a>    <span class="at">geom =</span> <span class="st">"text"</span>, </span>
+<span id="cb19-70"><a href="#cb19-70" aria-hidden="true" tabindex="-1"></a>    <span class="at">x =</span> <span class="fu">median</span>(stu_qqq_sch<span class="sc">$</span>average_read) <span class="sc">+</span> <span class="dv">25</span>, </span>
+<span id="cb19-71"><a href="#cb19-71" aria-hidden="true" tabindex="-1"></a>    <span class="at">y =</span> <span class="dv">65</span>,</span>
+<span id="cb19-72"><a href="#cb19-72" aria-hidden="true" tabindex="-1"></a>    <span class="at">label =</span> <span class="fu">paste0</span>(<span class="st">"Median = </span><span class="sc">\n</span><span class="st">"</span>, <span class="fu">round</span>(<span class="fu">median</span>(stu_qqq_sch<span class="sc">$</span>average_read),<span class="dv">2</span>)),</span>
+<span id="cb19-73"><a href="#cb19-73" aria-hidden="true" tabindex="-1"></a>    <span class="at">color =</span> <span class="st">"red"</span>,</span>
+<span id="cb19-74"><a href="#cb19-74" aria-hidden="true" tabindex="-1"></a>    <span class="at">hjust =</span> <span class="dv">0</span></span>
+<span id="cb19-75"><a href="#cb19-75" aria-hidden="true" tabindex="-1"></a>  ) <span class="sc">+</span></span>
+<span id="cb19-76"><a href="#cb19-76" aria-hidden="true" tabindex="-1"></a>  <span class="fu">theme</span>(<span class="at">axis.text.x =</span> <span class="fu">element_text</span>(<span class="at">size=</span><span class="dv">5</span>),</span>
+<span id="cb19-77"><a href="#cb19-77" aria-hidden="true" tabindex="-1"></a>        <span class="at">panel.background =</span> <span class="fu">element_rect</span>(<span class="at">fill=</span><span class="st">"white"</span>,<span class="at">colour=</span><span class="st">"white"</span>),</span>
+<span id="cb19-78"><a href="#cb19-78" aria-hidden="true" tabindex="-1"></a>        <span class="at">panel.grid.major =</span> <span class="fu">element_line</span>(<span class="at">color =</span> <span class="st">"grey80"</span>),</span>
+<span id="cb19-79"><a href="#cb19-79" aria-hidden="true" tabindex="-1"></a>        <span class="at">panel.grid.minor =</span> <span class="fu">element_blank</span>(),</span>
+<span id="cb19-80"><a href="#cb19-80" aria-hidden="true" tabindex="-1"></a>        <span class="at">panel.grid.major.x =</span> <span class="fu">element_blank</span>())</span>
+<span id="cb19-81"><a href="#cb19-81" aria-hidden="true" tabindex="-1"></a></span>
+<span id="cb19-82"><a href="#cb19-82" aria-hidden="true" tabindex="-1"></a>schmath <span class="sc">+</span> schscie <span class="sc">+</span> schread <span class="sc">+</span> <span class="fu">plot_annotation</span>(</span>
+<span id="cb19-83"><a href="#cb19-83" aria-hidden="true" tabindex="-1"></a>  <span class="at">title =</span> <span class="st">'Average student</span><span class="sc">\'</span><span class="st">s Performance across Schools'</span>,</span>
+<span id="cb19-84"><a href="#cb19-84" aria-hidden="true" tabindex="-1"></a>  <span class="at">theme =</span> <span class="fu">theme</span>(<span class="at">plot.title =</span> <span class="fu">element_text</span>(<span class="at">hjust =</span> <span class="fl">0.5</span>))</span>
+<span id="cb19-85"><a href="#cb19-85" aria-hidden="true" tabindex="-1"></a>)</span></code><button title="Copy to Clipboard" class="code-copy-button"><i class="bi"></i></button></pre></div>
+<div class="cell-output-display">
+<p><img src="Take-home_Ex2_files/figure-html/unnamed-chunk-12-1.png" class="img-fluid" width="672"></p>
+</div>
+</div>
 
 
 </section>
